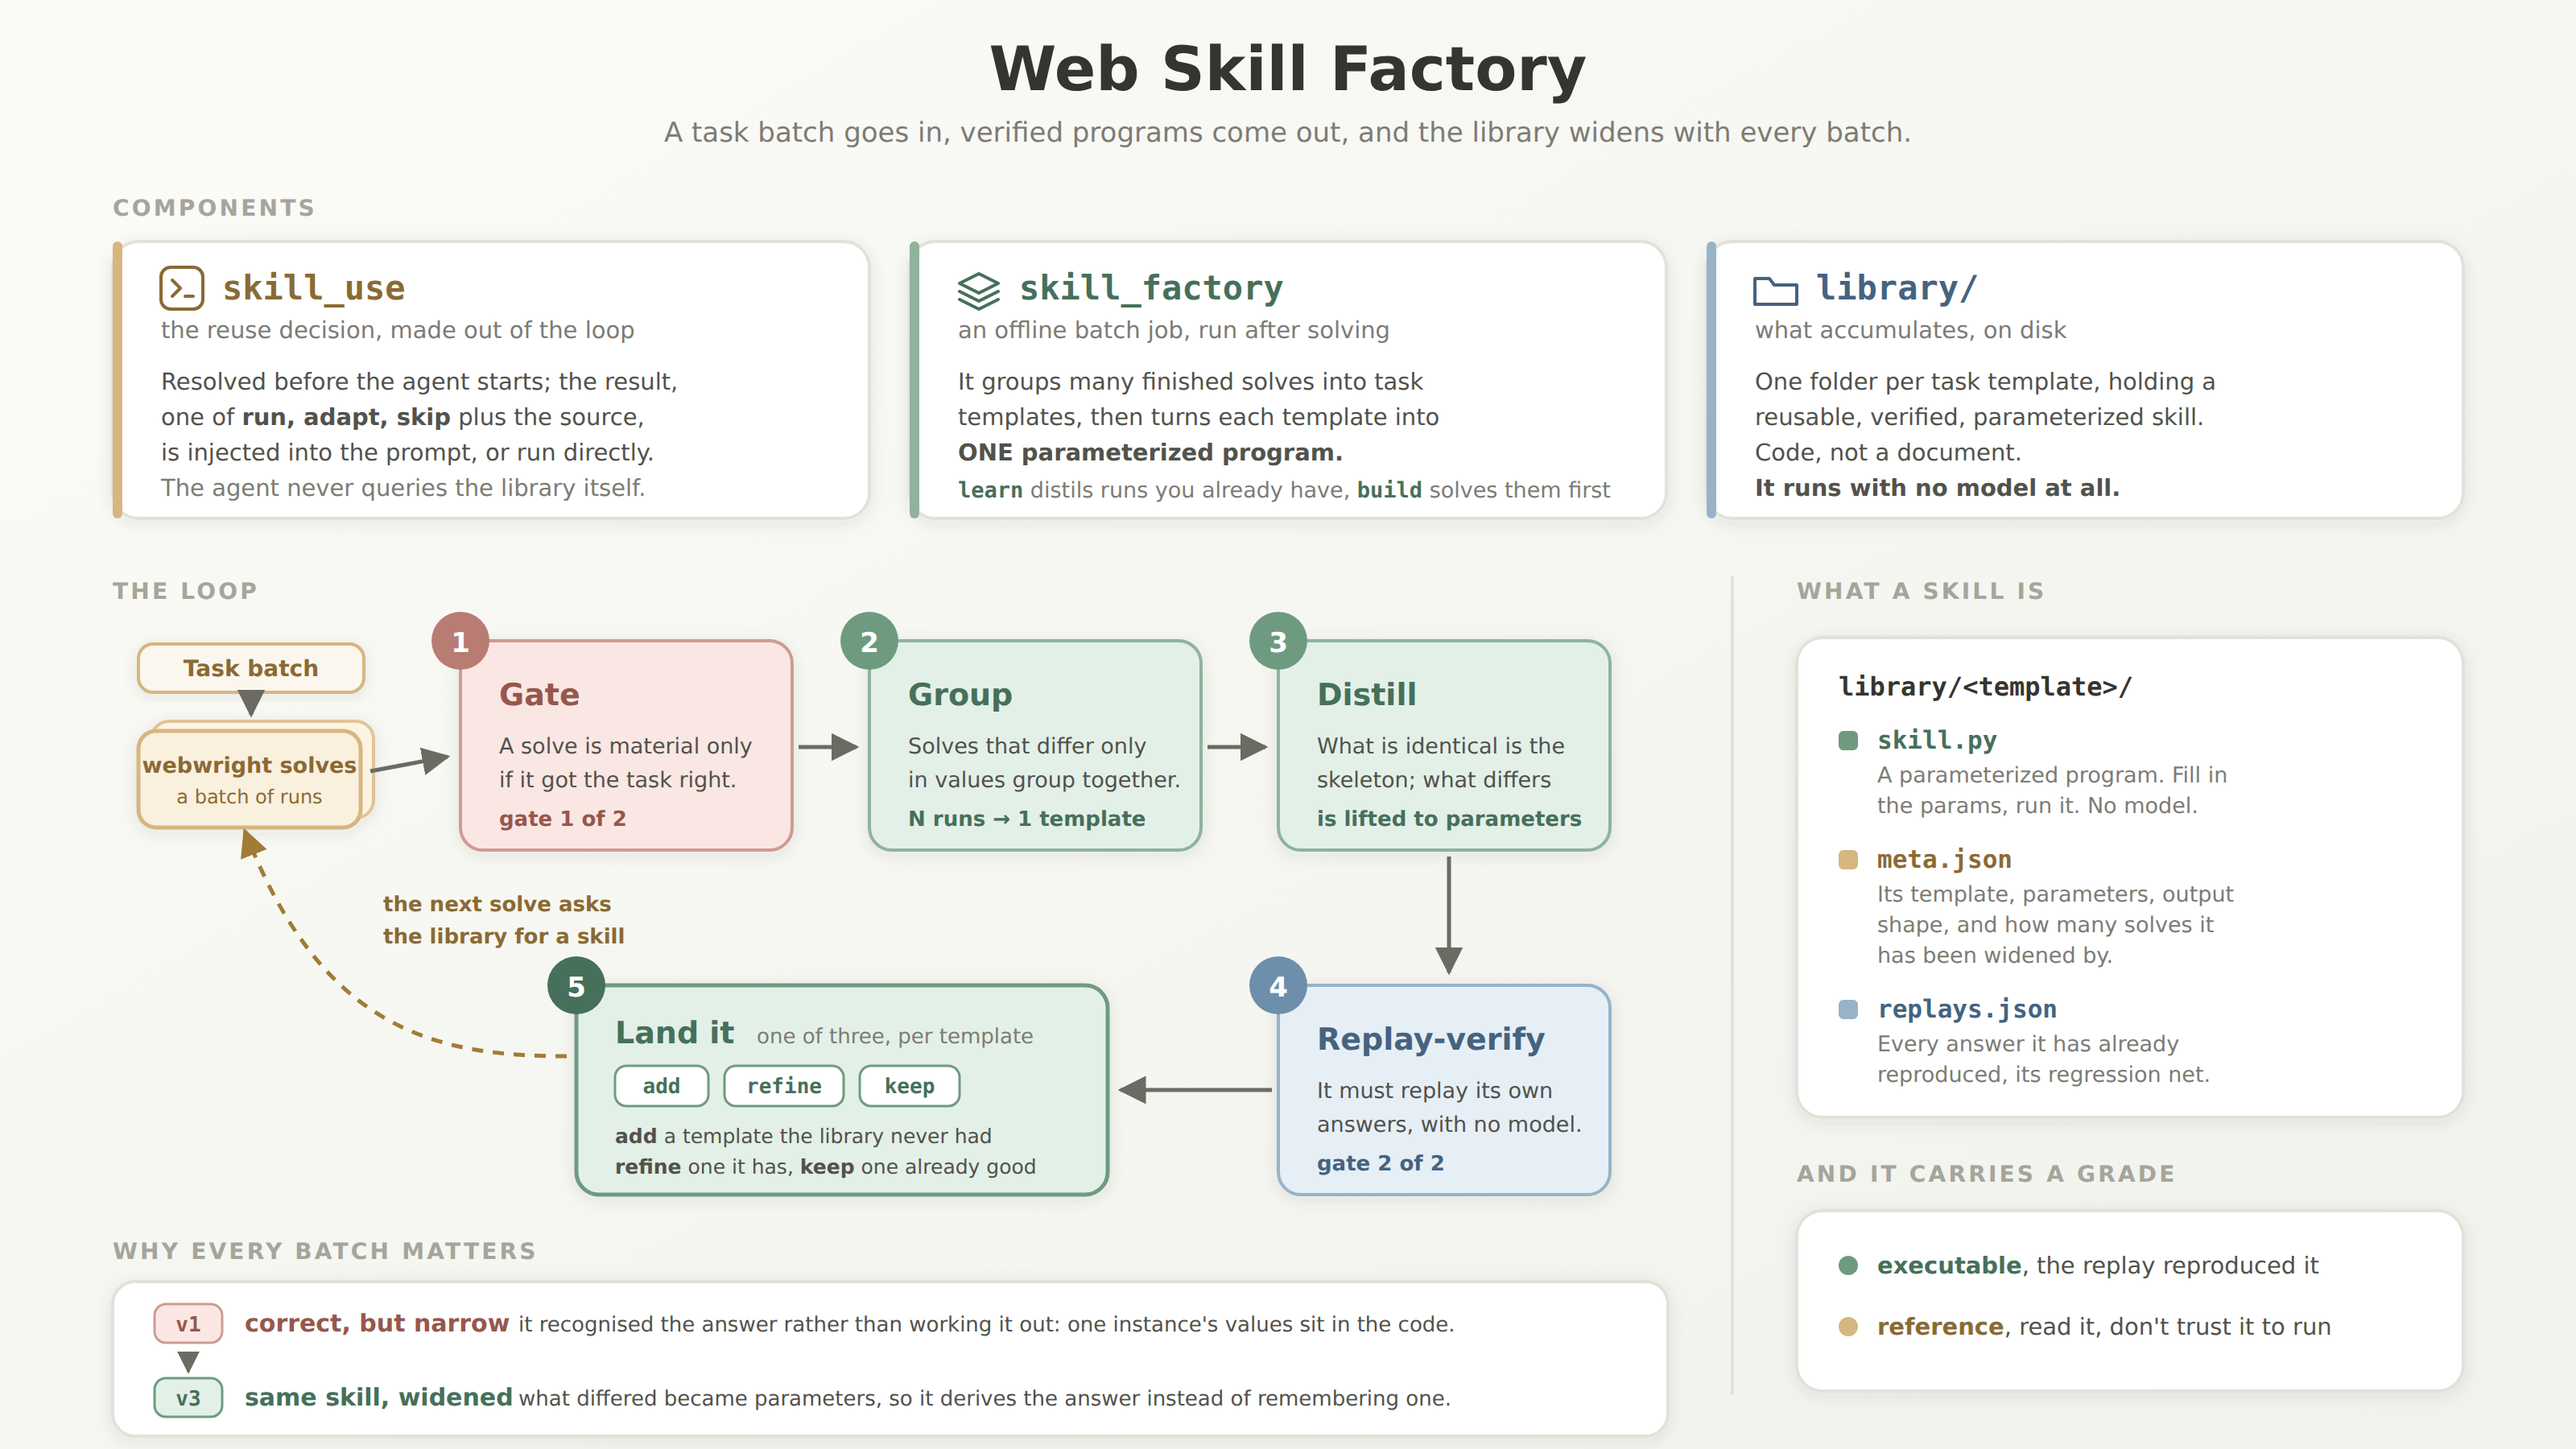
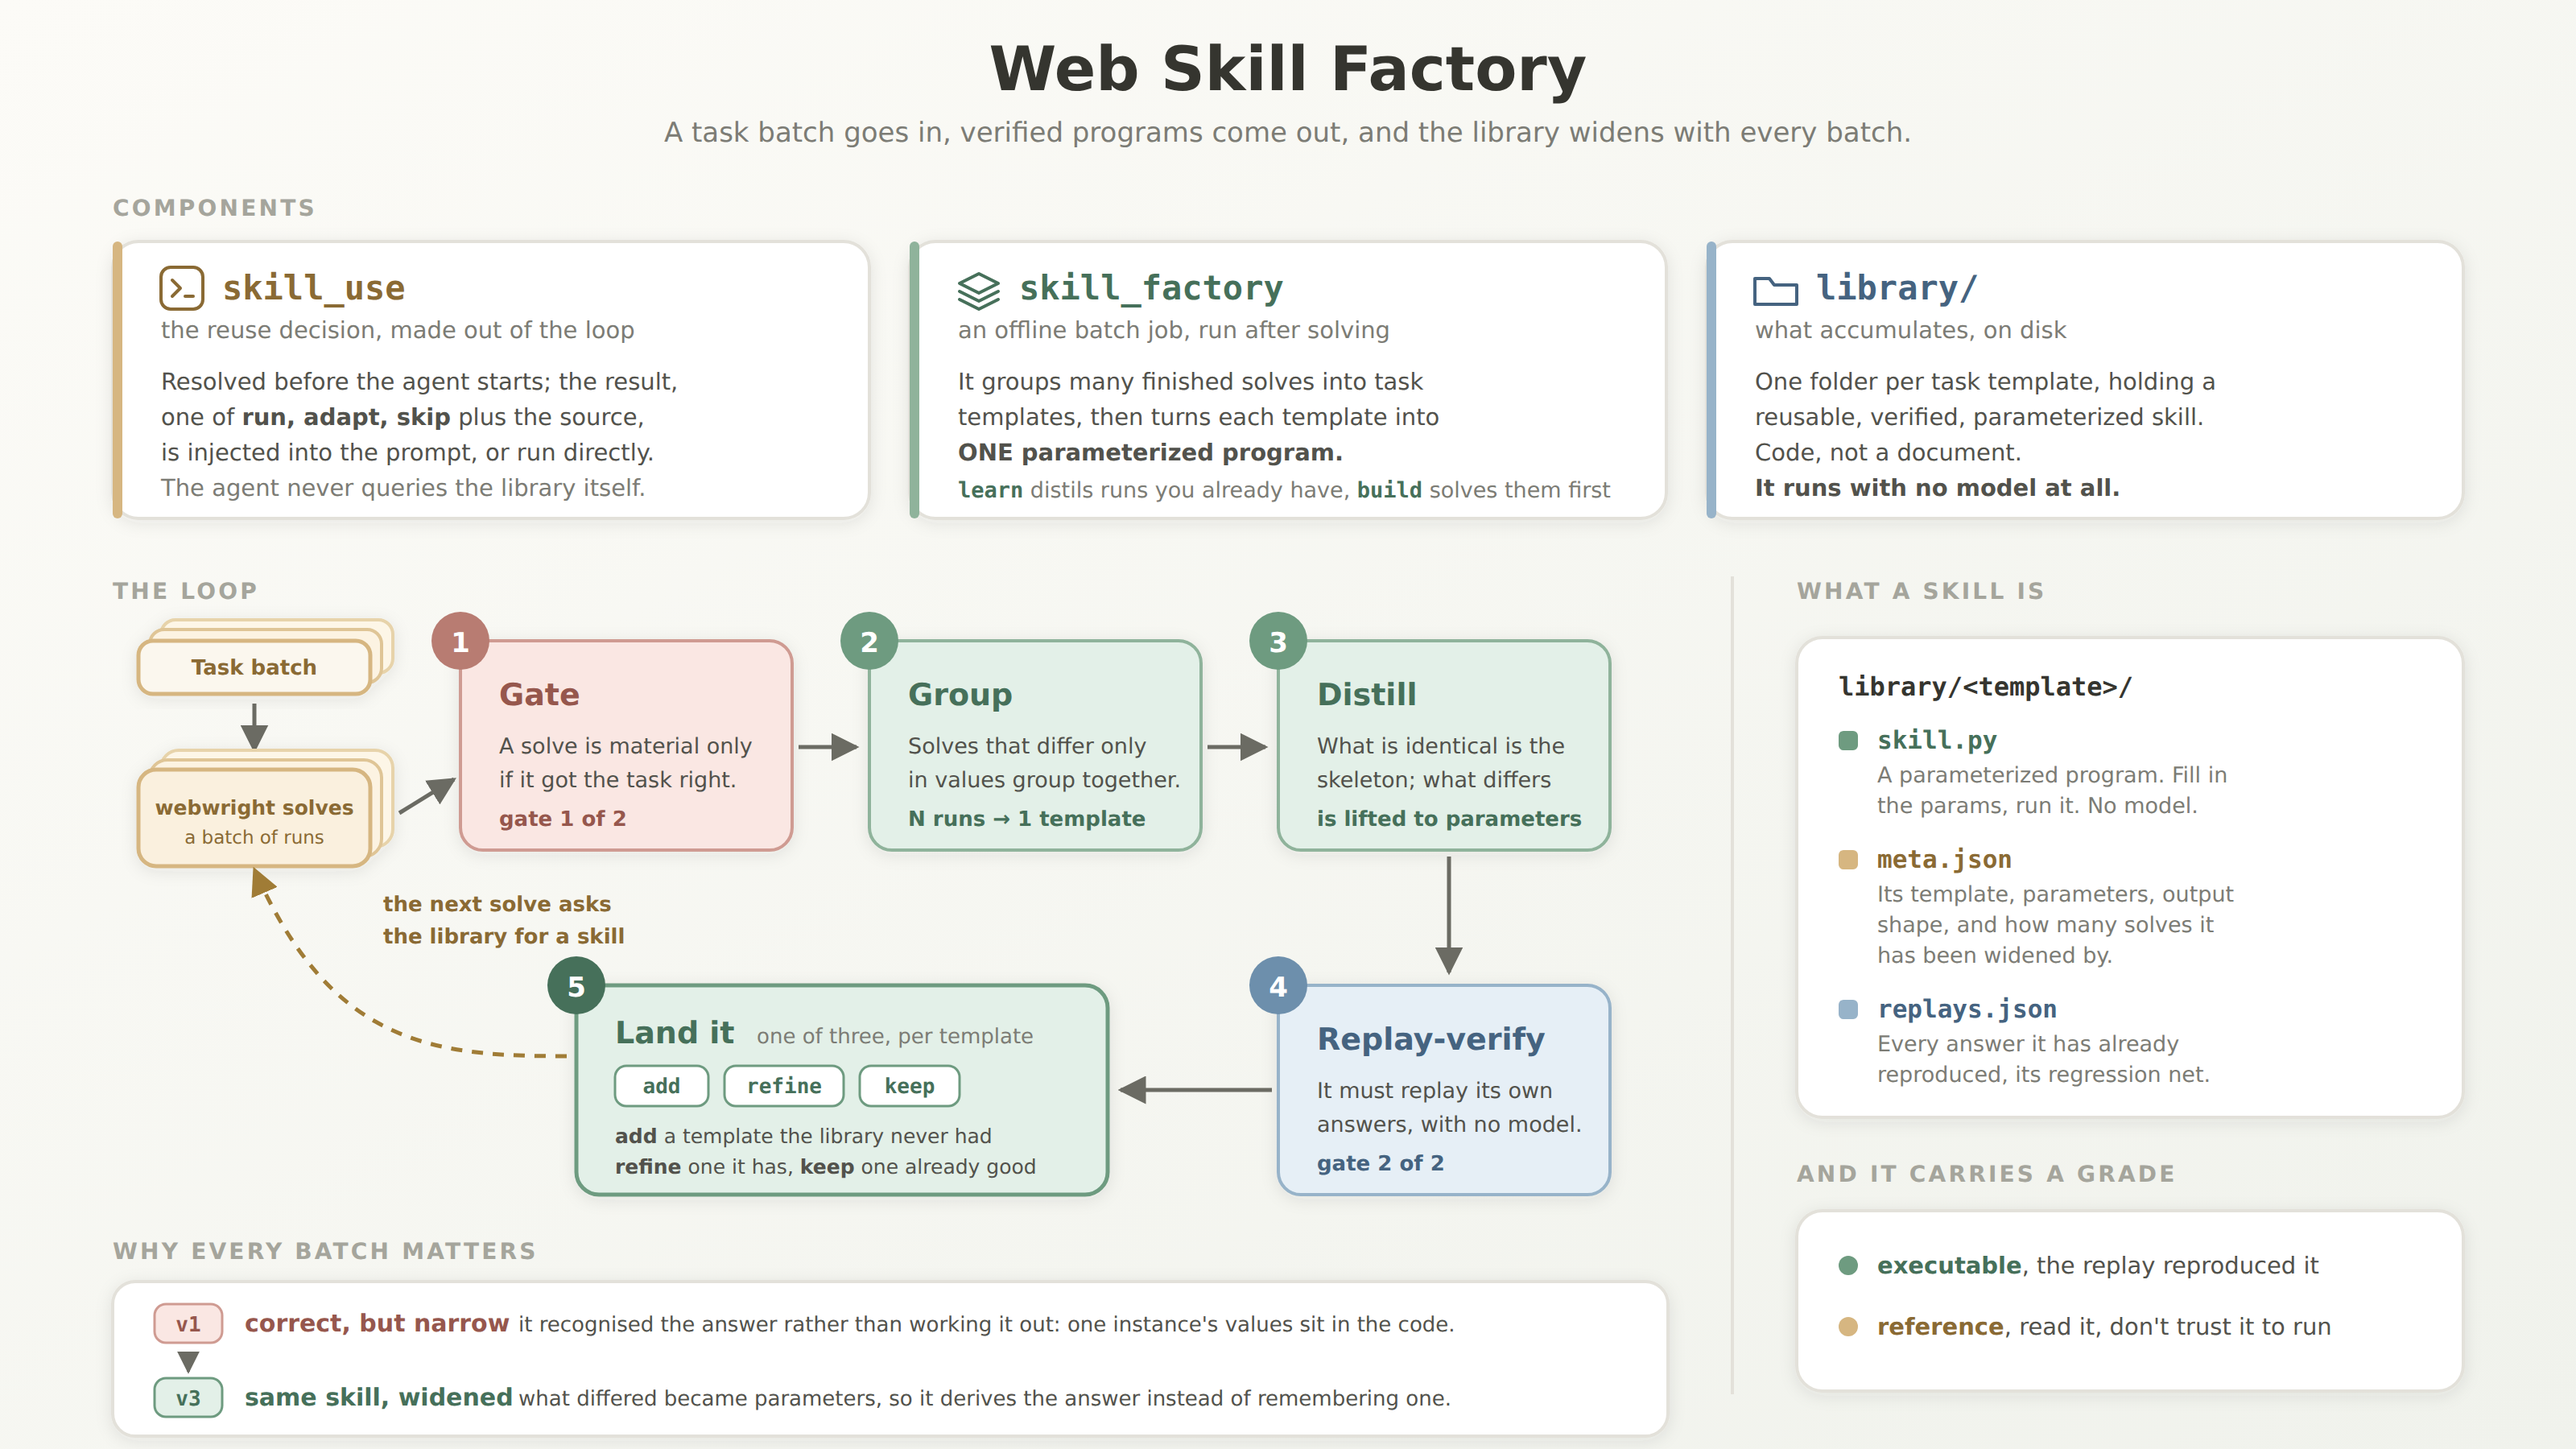
skill+diagram+docs: flights skill takes codes only; pipeline entry refined
- checked-in flights skill: drop the unused origin_city/destination_city params;
  the solve logic only ever used the airport codes. CLI is now just
  --origin-code / --destination-code / --date (README + examples updated).
- pipeline diagram: the loop entry is Task batch → webwright solves (3-card
  stacks, roomier padding); PNG regenerated from the SVG.

Changed region(s): [[0.0625, 0.4044, 0.1875, 0.6222], [0.125, 0.6844, 0.1562, 0.7156]]

diff --git a/src/webwright/skill_factory/examples/learned_library/what_is_the_earliest_nonstop_flight_from_2c8dab1/skill.py b/src/webwright/skill_factory/examples/learned_library/what_is_the_earliest_nonstop_flight_from_2c8dab1/skill.py
@@ -4,7 +4,7 @@
 #   python skill.py --origin-city ...   (convenience for humans)
 def _skillfactory_cli():
     import sys, json, argparse, tempfile
-    _PARAMS = ['origin_city', 'origin_code', 'destination_city', 'destination_code', 'date']
+    _PARAMS = ['origin_code', 'destination_code', 'date']
     argv = sys.argv[1:]
     # A single positional, non-flag argument is a taskspec.json path -> original behaviour,
     # sys.argv left untouched. This is the path replay uses, so it must not change.
@@ -754,7 +754,7 @@ async def retrieve_earliest_nonstop_flight(page, params):
 async def main():
     LOG_PATH.write_text("", encoding="utf-8")
 
-    required = ["origin_city", "origin_code", "destination_city", "destination_code", "date"]
+    required = ["origin_code", "destination_code", "date"]
     missing = [k for k in required if not PARAMS.get(k)]
     if missing:
         raise RuntimeError(f"Missing required params: {missing}")

diff --git a/src/webwright/skill_factory/README.md b/src/webwright/skill_factory/README.md
@@ -103,10 +103,10 @@ A learned skill is a plain CLI. Run it directly — no model, no API key, about 
 
 ```bash
 python src/webwright/skill_factory/examples/learned_library/what_is_the_earliest_nonstop_flight_from_2c8dab1/skill.py \
-    --origin-city SEA --origin-code SEA --destination-city DEN --destination-code DEN --date 2026-08-26
+    --origin-code SEA --destination-code DEN --date 2026-08-26
 ```
 
-The skill takes all five parameters as `--flags` (for airport codes, city and code can be the same); it also accepts a positional `taskspec.json`, which is what replay and programmatic callers use. Change the codes and date for your own route.
+The skill takes its three parameters as `--flags` (`--origin-code`, `--destination-code`, `--date`); it also accepts a positional `taskspec.json`, which is what replay and programmatic callers use. Change the codes and date for your own route.
 
 It prints the ten fixed steps it executed and the location of the saved screenshots. The steps are encoded in the skill, not chosen by a model. The run directory (under `$WORKSPACE_DIR`) contains the full trajectory.
 

diff --git a/src/webwright/skill_factory/examples/README.md b/src/webwright/skill_factory/examples/README.md
@@ -40,12 +40,12 @@ from scratch — see the measured numbers in the module README.
 
 ## Run it
 
-Standalone — no API key, ~40 s. The skill is a plain CLI (all five params as `--flags`, or a
+Standalone — no API key, ~40 s. The skill is a plain CLI (its three params as `--flags`, or a
 positional `taskspec.json`):
 
 ```bash
 python learned_library/what_is_the_earliest_nonstop_flight_from_2c8dab1/skill.py \
-    --origin-city SEA --origin-code SEA --destination-city DEN --destination-code DEN --date 2026-08-26
+    --origin-code SEA --destination-code DEN --date 2026-08-26
 ```
 
 With the agent in the loop — `route` decides `run` / `adapt` / `skip` and then acts (needs a key).
